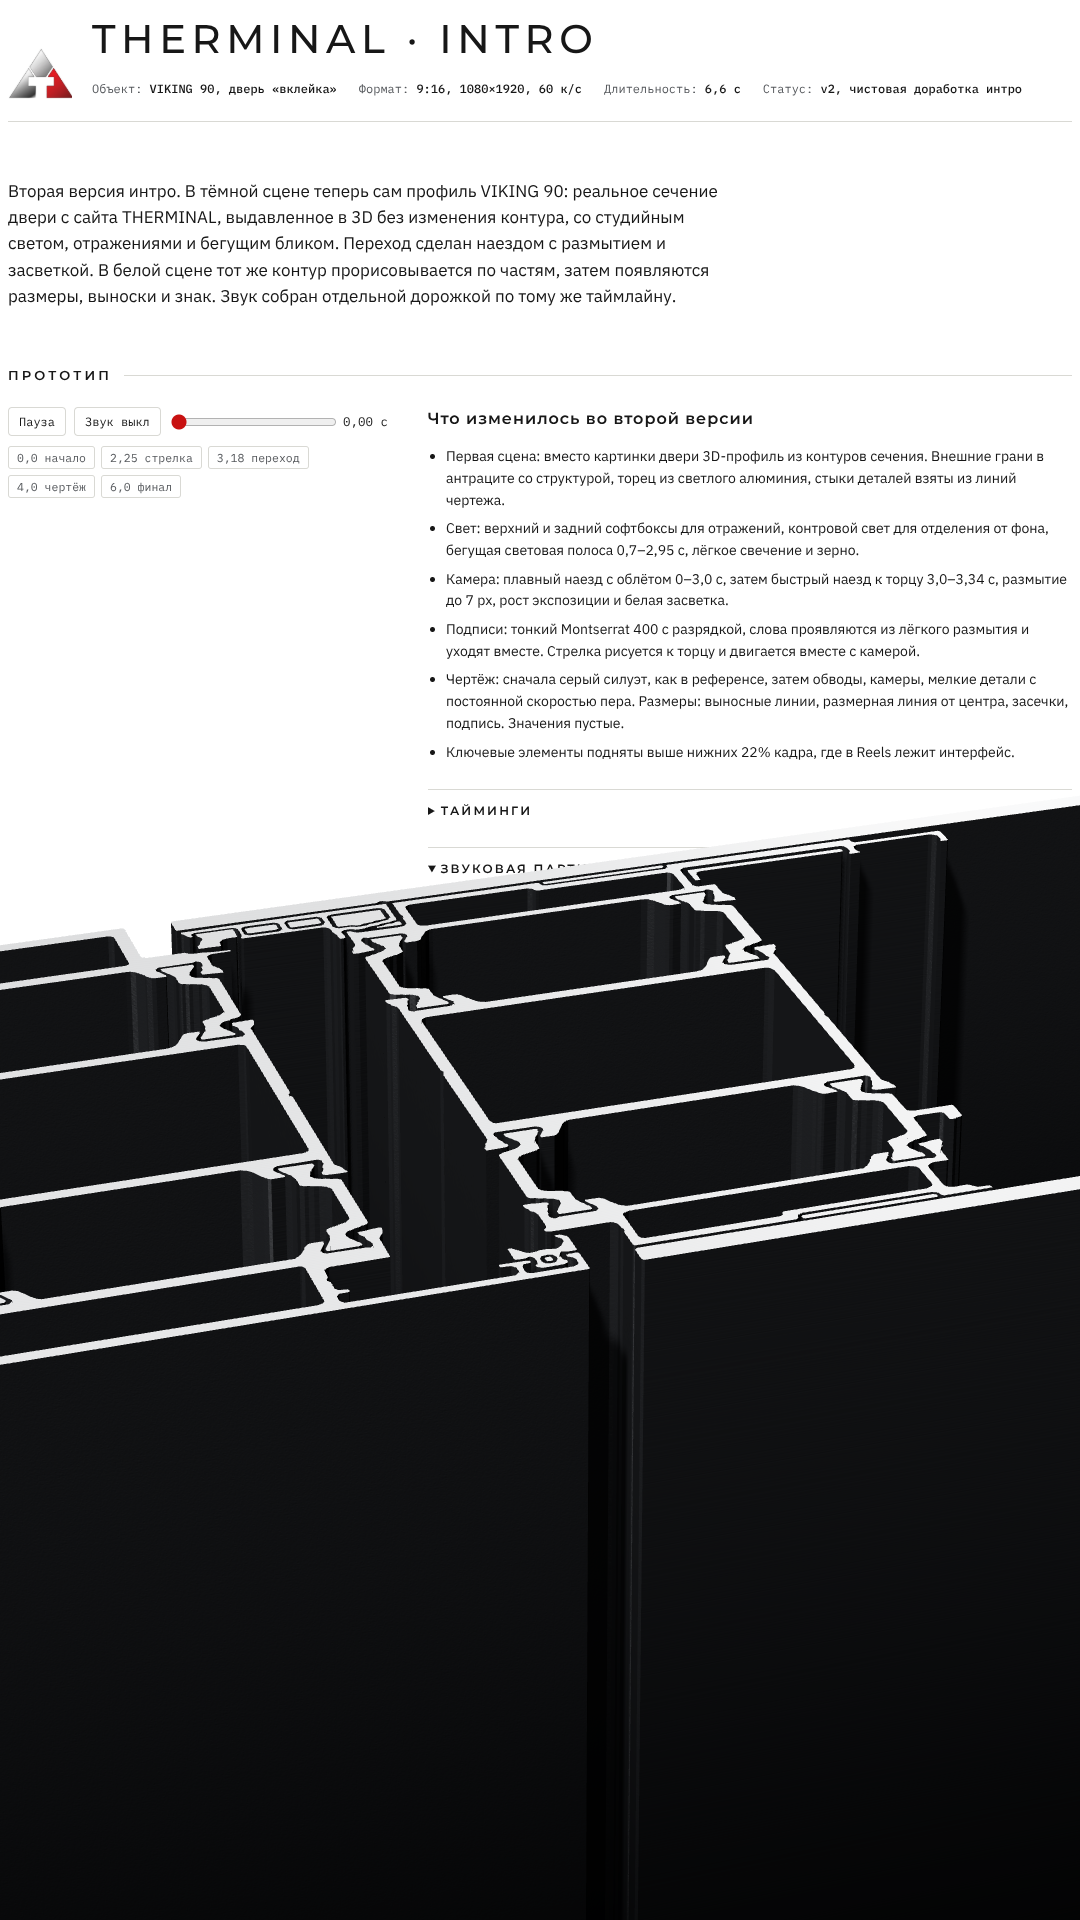
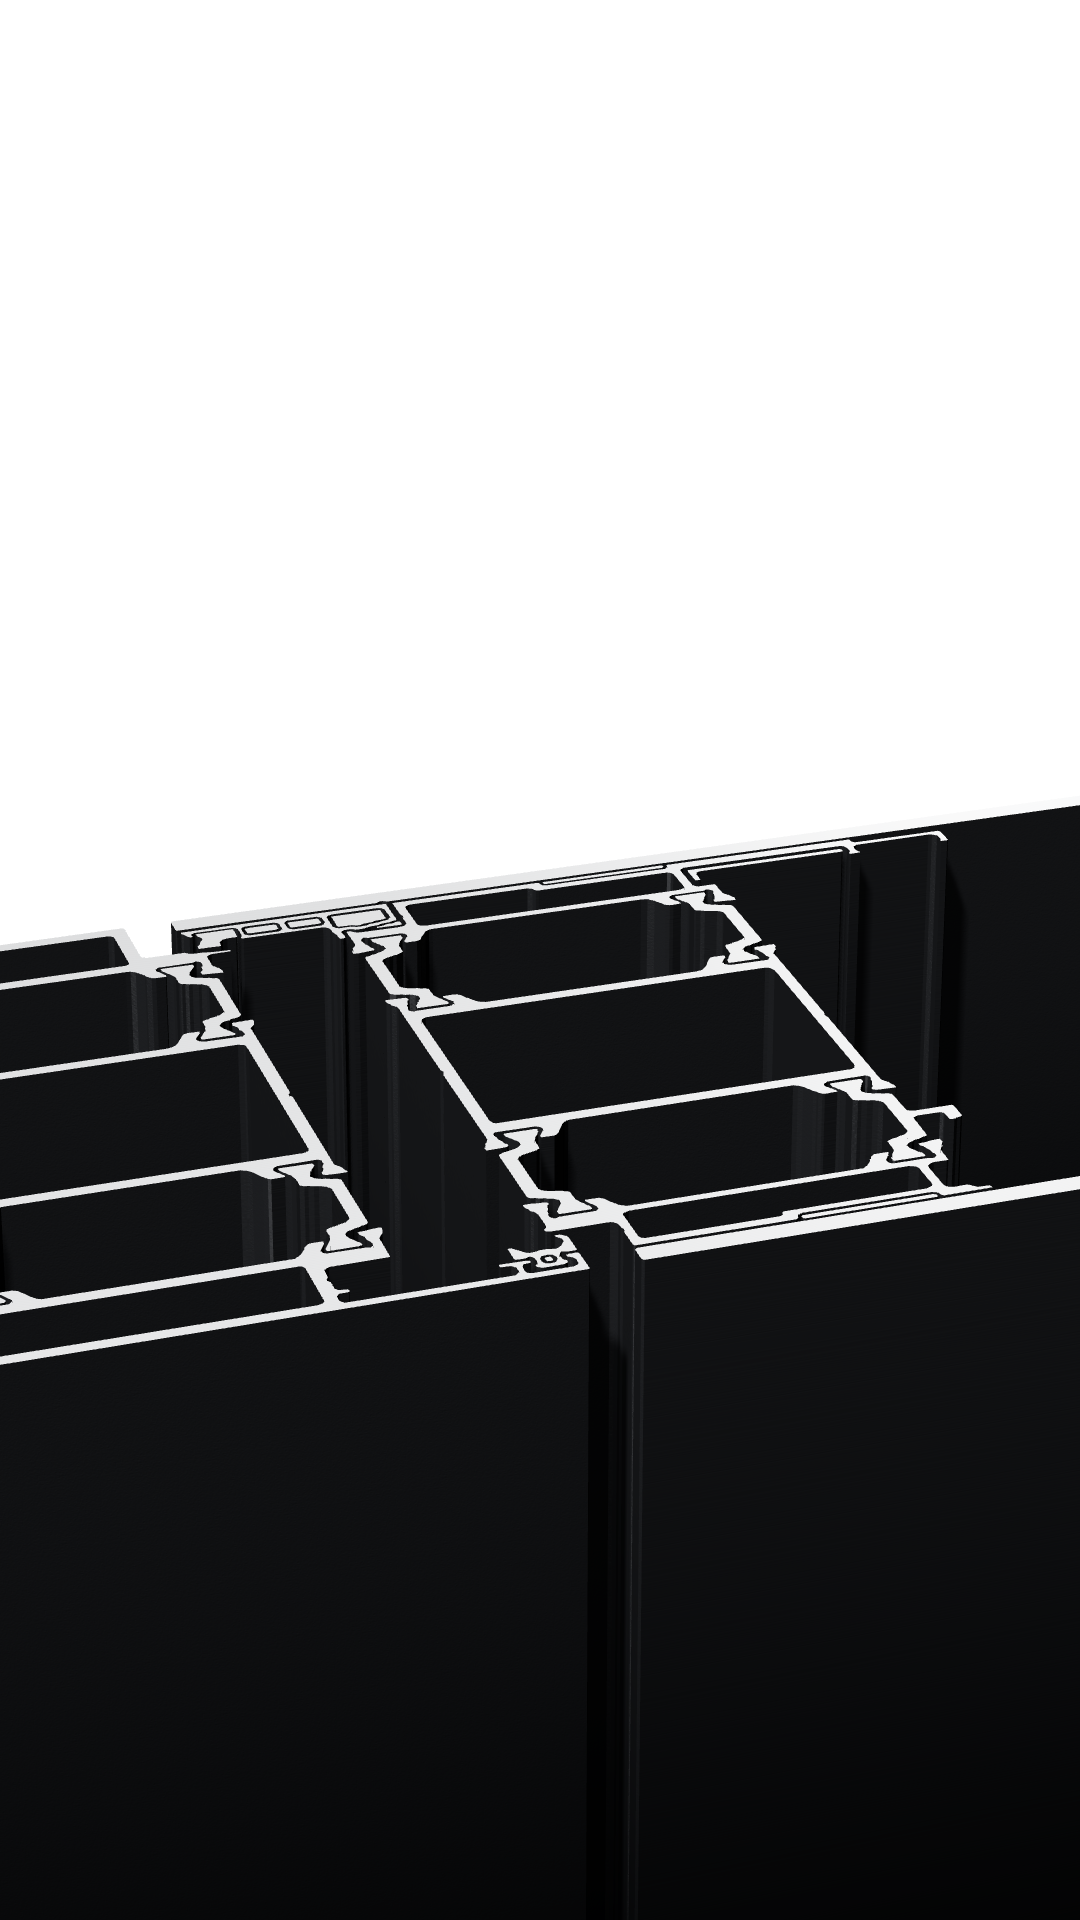
Fix page showing through alpha exports; regenerate profile stills
Claude-Session: https://claude.ai/code/session_01VRPaaZz8PJPMDXENt567K7

diff --git a/intro/concept/index.html b/intro/concept/index.html
@@ -19,6 +19,7 @@
   --paper:#121314; --sheet:#1b1c1e; --ink:#ececea; --ink-2:#a3a6aa; --rule:#33353a;
   --red:#ef3b3b; --red-soft:#3a1c1c; --ok:#7fc296; --ok-soft:#1c2d22; --warn:#e0b25c; --warn-soft:#352a16; color-scheme:dark}
 *{box-sizing:border-box}
+[hidden]{display:none!important}
 body{background:var(--paper);color:var(--ink);font-family:var(--f-body);font-size:15px;line-height:1.55;
   padding-left:max(16px,env(safe-area-inset-left,0px));padding-right:max(16px,env(safe-area-inset-right,0px));padding-block:28px 64px}
 .wrap{max-width:1120px;margin:0 auto;display:flex;flex-direction:column;gap:56px}

diff --git a/intro/concept/index.template.html b/intro/concept/index.template.html
@@ -19,6 +19,7 @@
   --paper:#121314; --sheet:#1b1c1e; --ink:#ececea; --ink-2:#a3a6aa; --rule:#33353a;
   --red:#ef3b3b; --red-soft:#3a1c1c; --ok:#7fc296; --ok-soft:#1c2d22; --warn:#e0b25c; --warn-soft:#352a16; color-scheme:dark}
 *{box-sizing:border-box}
+[hidden]{display:none!important}
 body{background:var(--paper);color:var(--ink);font-family:var(--f-body);font-size:15px;line-height:1.55;
   padding-left:max(16px,env(safe-area-inset-left,0px));padding-right:max(16px,env(safe-area-inset-right,0px));padding-block:28px 64px}
 .wrap{max-width:1120px;margin:0 auto;display:flex;flex-direction:column;gap:56px}
